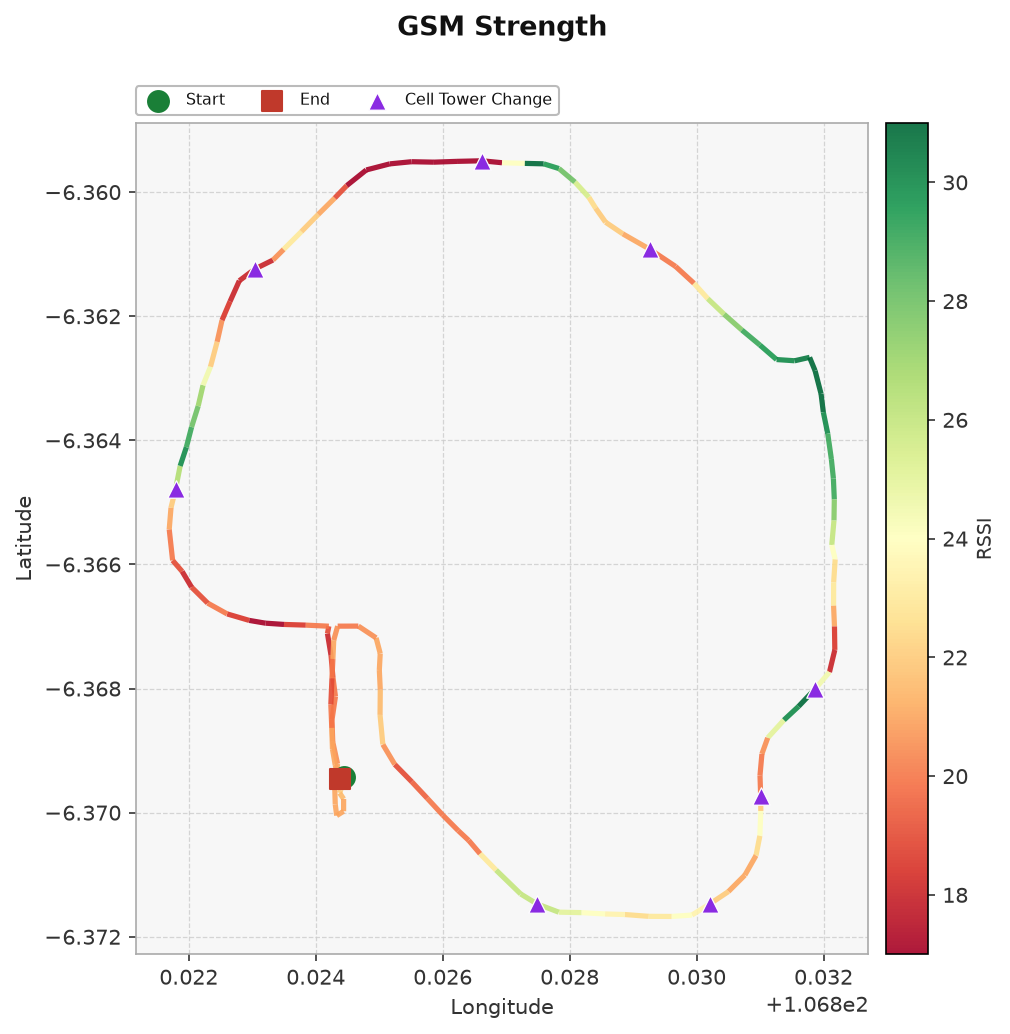
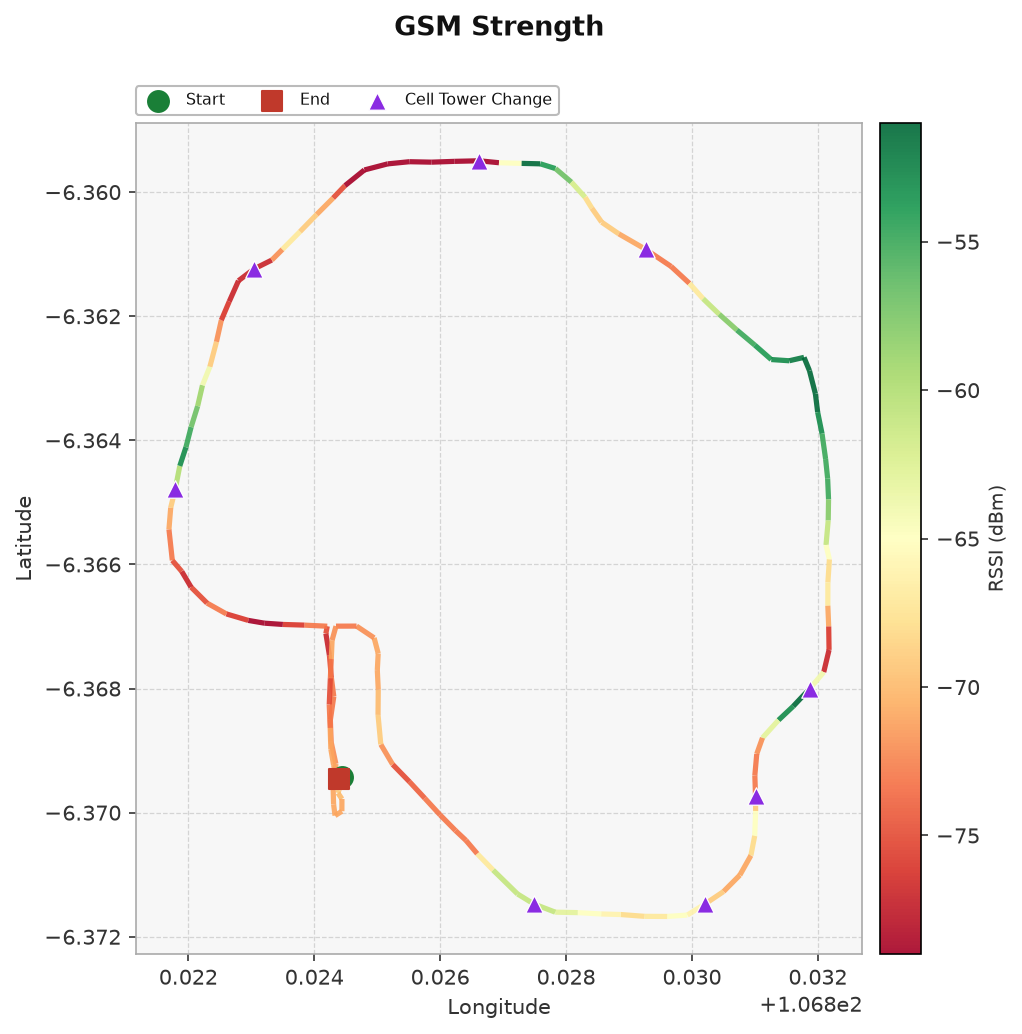
fix: update testing

diff --git a/testing/main.py b/testing/main.py
@@ -304,19 +304,40 @@ def pengujian_gsm(start_test_id, end_test_id, csv_file):
     df = pd.read_csv(csv_file, sep=";")
     ts = df[(df["test_id"] >= start_test_id) & (df["test_id"] <= end_test_id)].copy()
 
-    # Fill missing RSSI with mean
+    # network_rssi column actually stores CSQ values; fill missing with mean first
     if ts["network_rssi"].isna().any():
-        mean_rssi = ts["network_rssi"].mean()
+        mean_csq = ts["network_rssi"].mean()
         n = ts["network_rssi"].isna().sum()
-        ts["network_rssi"] = ts["network_rssi"].fillna(mean_rssi)
+        ts["network_rssi"] = ts["network_rssi"].fillna(mean_csq)
         print(
-            f"Filled {n} missing value(s) in 'network_rssi' with mean ({mean_rssi:.2f})"
+            f"Filled {n} missing value(s) in 'network_rssi' (CSQ) with mean ({mean_csq:.2f})"
         )
 
+    # Convert CSQ → true RSSI  (CSQ = (RSSI + 113) / 2  →  RSSI = 2*CSQ - 113)
+    ts["rssi"] = ts["network_rssi"] * 2 - 113
+
+    # Compute latency
+    ts["datetime_send"] = pd.to_datetime(ts["datetime_iso8601"], errors="coerce", utc=True)
+    ts["datetime_receive"] = pd.to_datetime(ts["received_at"], errors="coerce", utc=True)
+    is_frozen = (
+        ts["datetime_send"].isna()
+        | (ts["datetime_send"].dt.year == 1980)
+        | (ts["datetime_send"] == ts["datetime_send"].shift(1))
+    )
+    ts["latency_s"] = (ts["datetime_receive"] - ts["datetime_send"]).dt.total_seconds()
+    ts.loc[is_frozen, "latency_s"] = None
+
     total = len(ts)
+    valid_lat = ts["latency_s"].dropna()
     print(f"Total GSM test rows : {total}")
     print(
-        f"RSSI range          : {ts['network_rssi'].min()} – {ts['network_rssi'].max()}"
+        f"CSQ range           : {ts['network_rssi'].min()} – {ts['network_rssi'].max()} (mean: {ts['network_rssi'].mean():.2f})"
+    )
+    print(
+        f"RSSI range (dBm)    : {ts['rssi'].min()} – {ts['rssi'].max()} (mean: {ts['rssi'].mean():.2f})"
+    )
+    print(
+        f"Latency (s)         : {valid_lat.min():.4f} – {valid_lat.max():.4f} (mean: {valid_lat.mean():.4f})"
     )
     print(
         f"Unique cell towers  : {ts['network_ci'].nunique()} ({', '.join(ts['network_ci'].unique())})"
@@ -324,10 +345,11 @@ def pengujian_gsm(start_test_id, end_test_id, csv_file):
     return ts
 
 
+
 def plot_gsm_route(ts, title="GSM Route", output_file=None):
     lats = ts["location_latitude"].values
     lons = ts["location_longitude"].values
-    rssi = ts["network_rssi"].values
+    rssi = ts["rssi"].values
     cells = ts["network_ci"].values
 
     fig, ax = plt.subplots(figsize=(7, 7))
@@ -353,7 +375,7 @@ def plot_gsm_route(ts, title="GSM Route", output_file=None):
     ax.add_collection(lc)
 
     cbar = fig.colorbar(lc, ax=ax, pad=0.02)
-    cbar.set_label("RSSI", color="#333333", fontsize=9)
+    cbar.set_label("RSSI (dBm)", color="#333333", fontsize=9)
     cbar.ax.yaxis.set_tick_params(color="#333333")
     plt.setp(cbar.ax.yaxis.get_ticklabels(), color="#333333")
 
@@ -413,7 +435,82 @@ def plot_gsm_route(ts, title="GSM Route", output_file=None):
         plt.show()
 
 
+def plot_gsm_latency_vs_rssi(ts, title="GSM Latency & RSSI vs Test ID", output_file=None):
+    """Dual-axis line graph: latency in seconds (left) and RSSI (right) over test_id."""
+    x = ts["test_id"].values
+    latency = ts["latency_s"].values
+    rssi = ts["rssi"].values
+
+    latency_color = "#e05c00"
+    rssi_color = "#0077b6"
+
+    fig, ax1 = plt.subplots(figsize=(12, 5))
+    fig.patch.set_facecolor("white")
+    ax1.set_facecolor("#f7f7f7")
+    ax1.grid(color="#cccccc", linewidth=0.6, linestyle="--", alpha=0.8, zorder=0)
+
+    # --- Left axis: latency ---
+    ax1.plot(
+        x,
+        latency,
+        color=latency_color,
+        linewidth=1.4,
+        alpha=0.9,
+        label="Latency (s)",
+        zorder=2,
+    )
+    ax1.fill_between(x, latency, alpha=0.12, color=latency_color, zorder=1)
+    ax1.set_xlabel("Test ID", color="#333333")
+    ax1.set_ylabel("Latency (s)", color=latency_color)
+    ax1.tick_params(axis="y", colors=latency_color)
+    ax1.tick_params(axis="x", colors="#333333")
+    for spine in ax1.spines.values():
+        spine.set_edgecolor("#aaaaaa")
+
+    # --- Right axis: RSSI ---
+    ax2 = ax1.twinx()
+    ax2.plot(
+        x,
+        rssi,
+        color=rssi_color,
+        linewidth=1.4,
+        alpha=0.9,
+        label="RSSI",
+        zorder=2,
+    )
+    ax2.fill_between(x, rssi, -113, alpha=0.08, color=rssi_color, zorder=1)
+    ax2.set_ylabel("RSSI (dBm)", color=rssi_color)
+    ax2.set_ylim(bottom=-113)
+    ax2.tick_params(axis="y", colors=rssi_color)
+    ax2.spines["right"].set_edgecolor(rssi_color)
+
+    # Combined legend above the axes
+    lines1, labels1 = ax1.get_legend_handles_labels()
+    lines2, labels2 = ax2.get_legend_handles_labels()
+    ax1.legend(
+        lines1 + lines2,
+        labels1 + labels2,
+        facecolor="white",
+        edgecolor="#aaaaaa",
+        labelcolor="#111111",
+        fontsize=8.5,
+        loc="lower left",
+        bbox_to_anchor=(0, 1.01),
+        borderaxespad=0,
+        ncols=2,
+    )
+
+    ax1.set_title(title, color="#111111", fontsize=13, fontweight="bold", pad=42)
+    plt.tight_layout()
+    if output_file:
+        plt.savefig(output_file, dpi=150, bbox_inches="tight")
+        print(f"Plot saved to {output_file}")
+    else:
+        plt.show()
+
+
 def pengujian_qos(start_test_id, end_test_id, csv_file):
+
     df = pd.read_csv(csv_file, sep=";")
     
     # Filter by test_id

diff --git a/testing/gsm.py b/testing/gsm.py
@@ -1,4 +1,4 @@
-from main import pengujian_gsm, plot_gsm_route
+from main import pengujian_gsm, plot_gsm_latency_vs_rssi, plot_gsm_route
 
 # GSM Test
 START_TEST_ID = 4775
@@ -13,6 +13,11 @@ def main():
         ts,
         title="GSM Strength",
         output_file="gsm_route.png",
+    )
+    plot_gsm_latency_vs_rssi(
+        ts,
+        title="GSM Latency & RSSI vs Test ID",
+        output_file="gsm_latency_rssi.png",
     )
 
 